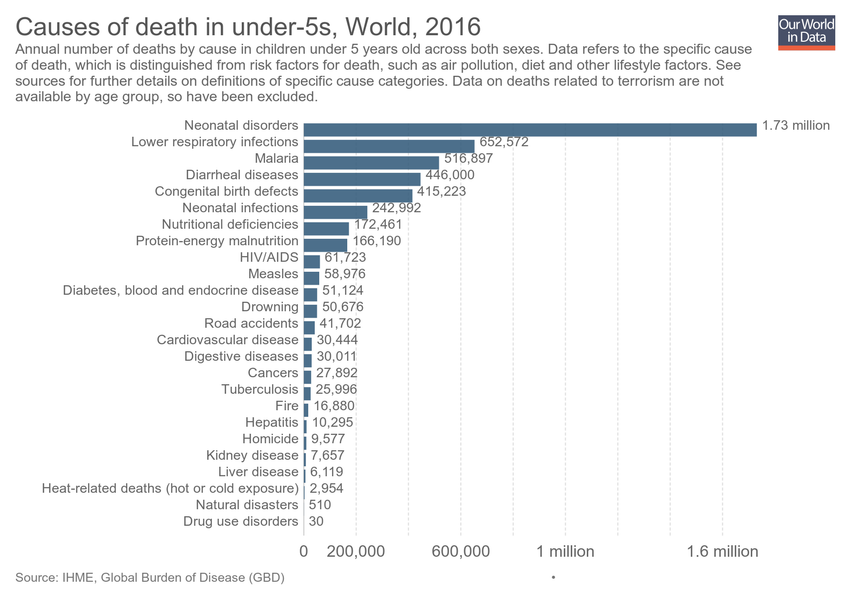
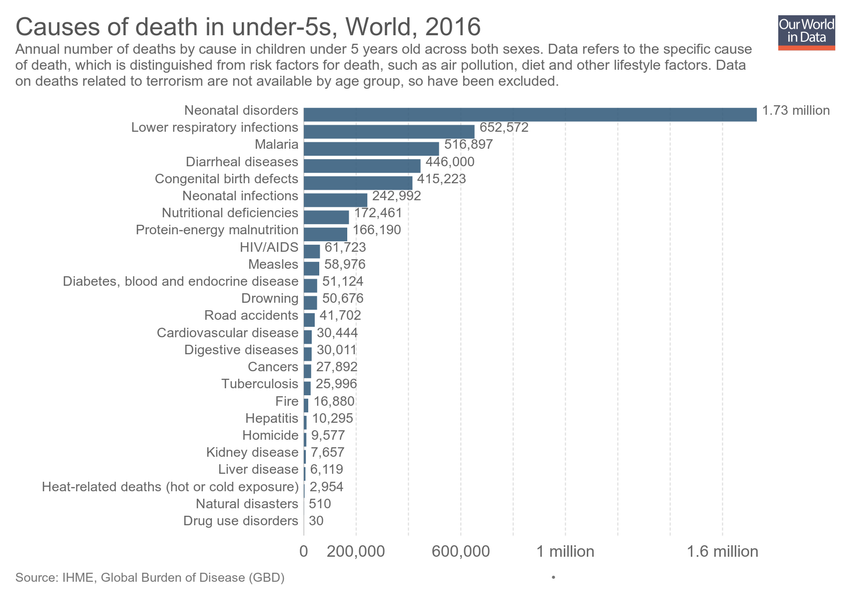
Updating chart causes-of-death-in-under-5s

Changed region(s): [[0.0, 0.09, 0.9788, 0.87]]

diff --git a/grapher/causes-of-death-in-under-5s.html b/grapher/causes-of-death-in-under-5s.html
@@ -1,4 +1,4 @@
-<!doctype html><html><head><meta name="viewport" content="width=device-width, initial-scale=1" /><title>Causes of death in under-5s - Our World in Data</title><meta name="description" content="Annual number of deaths by cause in children under 5 years old across both sexes. Data refers to the specific cause of death, which is distinguished from risk factors for death, such as air pollution, diet and other lifestyle factors. See sources for further details on definitions of specific cause categories. Data on deaths related to terrorism are not available by age group, so have been excluded." /><link rel="canonical" href="https://ourworldindata.org/grapher/causes-of-death-in-under-5s" /><meta property="fb:app_id" content="1149943818390250" /><meta property="og:url" content="https://ourworldindata.org/grapher/causes-of-death-in-under-5s" /><meta property="og:title" content="Causes of death in under-5s" /><meta property="og:description" content="Annual number of deaths by cause in children under 5 years old across both sexes. Data refers to the specific cause of death, which is distinguished from risk factors for death, such as air pollution, diet and other lifestyle factors. See sources for further details on definitions of specific cause categories. Data on deaths related to terrorism are not available by age group, so have been excluded." /><meta property="og:image" content="https://ourworldindata.org/grapher/exports/causes-of-death-in-under-5s.png?v=3" /><meta property="og:image:width" content="850" /><meta property="og:image:height" content="600" /><meta property="og:site_name" content="Our World in Data" /><meta name="twitter:card" content="summary_large_image" /><meta name="twitter:site" content="@OurWorldInData" /><meta name="twitter:creator" content="@OurWorldInData" /><meta name="twitter:title" content="Causes of death in under-5s" /><meta name="twitter:description" content="Annual number of deaths by cause in children under 5 years old across both sexes. Data refers to the specific cause of death, which is distinguished from risk factors for death, such as air pollution, diet and other lifestyle factors. See sources for further details on definitions of specific cause categories. Data on deaths related to terrorism are not available by age group, so have been excluded." /><meta name="twitter:image" content="https://ourworldindata.org/grapher/exports/causes-of-death-in-under-5s.png?v=3" /><style>
+<!doctype html><html><head><meta name="viewport" content="width=device-width, initial-scale=1" /><title>Causes of death in under-5s - Our World in Data</title><meta name="description" content="Annual number of deaths by cause in children under 5 years old across both sexes. Data refers to the specific cause of death, which is distinguished from risk factors for death, such as air pollution, diet and other lifestyle factors. Data on deaths related to terrorism are not available by age group, so have been excluded." /><link rel="canonical" href="https://ourworldindata.org/grapher/causes-of-death-in-under-5s" /><meta property="fb:app_id" content="1149943818390250" /><meta property="og:url" content="https://ourworldindata.org/grapher/causes-of-death-in-under-5s" /><meta property="og:title" content="Causes of death in under-5s" /><meta property="og:description" content="Annual number of deaths by cause in children under 5 years old across both sexes. Data refers to the specific cause of death, which is distinguished from risk factors for death, such as air pollution, diet and other lifestyle factors. Data on deaths related to terrorism are not available by age group, so have been excluded." /><meta property="og:image" content="https://ourworldindata.org/grapher/exports/causes-of-death-in-under-5s.png?v=4" /><meta property="og:image:width" content="850" /><meta property="og:image:height" content="600" /><meta property="og:site_name" content="Our World in Data" /><meta name="twitter:card" content="summary_large_image" /><meta name="twitter:site" content="@OurWorldInData" /><meta name="twitter:creator" content="@OurWorldInData" /><meta name="twitter:title" content="Causes of death in under-5s" /><meta name="twitter:description" content="Annual number of deaths by cause in children under 5 years old across both sexes. Data refers to the specific cause of death, which is distinguished from risk factors for death, such as air pollution, diet and other lifestyle factors. Data on deaths related to terrorism are not available by age group, so have been excluded." /><meta name="twitter:image" content="https://ourworldindata.org/grapher/exports/causes-of-death-in-under-5s.png?v=4" /><style>
         html, body {
             height: 100%;
             margin: 0;
@@ -20,8 +20,8 @@
         }
     </style><noscript><style>
                     figure { display: none !important; }
-                </style></noscript><link rel="stylesheet" href="https://ourworldindata.org/grapher/assets/commons.bundle.dcbbe53805c487d5e57617b10ac73a8a.css" /><link rel="preload" href="/grapher/data/variables/62026+61537+59063+61255+61277+58005+58611+59033+57511+57641+57966+58456+58778+61123+61024+60961+57787+61954+57726+59103+61836+58222+58070+58504+59048.json?v=3" as="fetch" crossorigin /></head><body class="singleChart"><figure data-grapher-src="/grapher/causes-of-death-in-under-5s"></figure><noscript id="fallback"><img src="/grapher/exports/causes-of-death-in-under-5s.svg" /><p>Interactive visualization requires JavaScript</p></noscript><script src="https://cdn.polyfill.io/v2/polyfill.min.js?features=es6,fetch"></script><script src="https://ourworldindata.org/grapher/assets/commons.bundle.4bbda1a4aa3b9e1fddc7.js"></script><script src="https://ourworldindata.org/grapher/assets/charts.bundle.4bbda1a4aa3b9e1fddc7.js"></script><script>
-        var jsonConfig = {"id":1707,"map":{"projection":"World","colorSchemeLabels":[],"colorSchemeValues":[],"colorSchemeMinValue":0,"customNumericColors":[],"customCategoryColors":{},"customCategoryLabels":{},"customHiddenCategories":{}},"tab":"chart","slug":"causes-of-death-in-under-5s","type":"DiscreteBar","title":"Causes of death in under-5s","xAxis":{"scaleType":"linear"},"yAxis":{"min":0,"scaleType":"linear"},"version":3,"subtitle":"Annual number of deaths by cause in children under 5 years old across both sexes. Data refers to the specific cause of death, which is distinguished from risk factors for death, such as air pollution, diet and other lifestyle factors. See sources for further details on definitions of specific cause categories. Data on deaths related to terrorism are not available by age group, so have been excluded.","hasMapTab":false,"originUrl":"https://ourworldindata.org/causes-of-death/","stackMode":"absolute","dimensions":[{"display":{"name":"Homicide","unit":"deaths","numDecimalPlaces":0},"property":"y","variableId":62026},{"display":{"name":"Protein-energy malnutrition","unit":"deaths","numDecimalPlaces":0},"property":"y","variableId":61537},{"display":{"name":"Nutritional deficiencies","unit":"deaths","numDecimalPlaces":0},"property":"y","variableId":59063},{"display":{"name":"Natural disasters","unit":"deaths","numDecimalPlaces":0},"property":"y","variableId":61255},{"display":{"name":"Heat-related deaths (hot or cold exposure)","unit":"deaths","numDecimalPlaces":0},"property":"y","variableId":61277},{"display":{"name":"Diarrheal diseases","unit":"deaths","numDecimalPlaces":0},"property":"y","variableId":58005},{"display":{"name":"Drug use disorders","unit":"deaths","numDecimalPlaces":0},"property":"y","variableId":58611},{"display":{"name":"Neonatal disorders","unit":"deaths","numDecimalPlaces":0},"property":"y","variableId":59033},{"display":{"name":"Road accidents","unit":"deaths","numDecimalPlaces":0},"property":"y","variableId":57511},{"display":{"name":"Tuberculosis","unit":"deaths","numDecimalPlaces":0},"property":"y","variableId":57641},{"display":{"name":"HIV/AIDS","unit":"deaths","numDecimalPlaces":0},"property":"y","variableId":57966},{"display":{"name":"Drowning","unit":"deaths","numDecimalPlaces":0},"property":"y","variableId":58456},{"display":{"name":"Malaria","unit":"deaths","numDecimalPlaces":0},"property":"y","variableId":58778},{"display":{"name":"Fire","unit":"deaths","numDecimalPlaces":0},"property":"y","variableId":61123},{"display":{"name":"Cancers","unit":"deaths","numDecimalPlaces":0},"property":"y","variableId":61024},{"display":{"name":"Hepatitis","unit":"deaths","numDecimalPlaces":0},"property":"y","variableId":60961},{"display":{"name":"Digestive diseases","unit":"deaths","numDecimalPlaces":0},"property":"y","variableId":57787},{"display":{"name":"Diabetes, blood and endocrine disease","unit":"deaths","numDecimalPlaces":0},"property":"y","variableId":61954},{"display":{"name":"Liver disease","unit":"deaths","numDecimalPlaces":0},"property":"y","variableId":57726},{"display":{"name":"Kidney disease","unit":"deaths","numDecimalPlaces":0},"property":"y","variableId":59103},{"display":{"name":"Cardiovascular disease","unit":"deaths","numDecimalPlaces":0},"property":"y","variableId":61836},{"display":{"name":"Congenital birth defects","unit":"deaths","numDecimalPlaces":0},"property":"y","variableId":58222,"saveToVariable":true},{"display":{"name":"Lower respiratory infections","unit":"deaths","numDecimalPlaces":0},"property":"y","variableId":58070},{"display":{"name":"Measles","unit":"deaths","numDecimalPlaces":0},"property":"y","variableId":58504,"saveToVariable":true},{"display":{"name":"Neonatal infections","unit":"deaths","numDecimalPlaces":0},"property":"y","variableId":59048,"saveToVariable":true}],"sourceDesc":"IHME, Global Burden of Disease (GBD)","hasChartTab":true,"isPublished":true,"selectedData":[{"index":0,"entityId":355},{"index":1,"entityId":355},{"index":10,"entityId":355},{"index":11,"entityId":355},{"index":12,"entityId":355},{"index":13,"entityId":355},{"index":14,"entityId":355},{"index":15,"entityId":355},{"index":16,"entityId":355},{"index":17,"entityId":355},{"index":18,"entityId":355},{"index":19,"entityId":355},{"index":2,"entityId":355},{"index":20,"entityId":355},{"index":21,"entityId":355},{"index":22,"entityId":355},{"index":23,"entityId":355},{"index":24,"entityId":355},{"index":25,"entityId":355},{"index":3,"entityId":355},{"index":4,"entityId":355},{"index":5,"entityId":355},{"index":6,"entityId":355},{"index":7,"entityId":355},{"index":8,"entityId":355},{"index":9,"entityId":355}],"internalNotes":"","addCountryMode":"change-country"};
+                </style></noscript><link rel="stylesheet" href="https://ourworldindata.org/grapher/assets/commons.bundle.dcbbe53805c487d5e57617b10ac73a8a.css" /><link rel="preload" href="/grapher/data/variables/62026+61537+59063+61255+61277+58005+58611+59033+57511+57641+57966+58456+58778+61123+61024+60961+57787+61954+57726+59103+61836+58222+58070+58504+59048.json?v=4" as="fetch" crossorigin /></head><body class="singleChart"><figure data-grapher-src="/grapher/causes-of-death-in-under-5s"></figure><noscript id="fallback"><img src="/grapher/exports/causes-of-death-in-under-5s.svg" /><p>Interactive visualization requires JavaScript</p></noscript><script src="https://cdn.polyfill.io/v2/polyfill.min.js?features=es6,fetch"></script><script src="https://ourworldindata.org/grapher/assets/commons.bundle.4bbda1a4aa3b9e1fddc7.js"></script><script src="https://ourworldindata.org/grapher/assets/charts.bundle.4bbda1a4aa3b9e1fddc7.js"></script><script>
+        var jsonConfig = {"id":1707,"map":{"projection":"World","colorSchemeLabels":[],"colorSchemeValues":[],"colorSchemeMinValue":0,"customNumericColors":[],"customCategoryColors":{},"customCategoryLabels":{},"customHiddenCategories":{}},"tab":"chart","slug":"causes-of-death-in-under-5s","type":"DiscreteBar","title":"Causes of death in under-5s","xAxis":{"scaleType":"linear"},"yAxis":{"min":0,"scaleType":"linear"},"version":4,"subtitle":"Annual number of deaths by cause in children under 5 years old across both sexes. Data refers to the specific cause of death, which is distinguished from risk factors for death, such as air pollution, diet and other lifestyle factors. Data on deaths related to terrorism are not available by age group, so have been excluded.","hasMapTab":false,"originUrl":"https://ourworldindata.org/causes-of-death/","stackMode":"absolute","dimensions":[{"display":{"name":"Homicide","unit":"deaths","numDecimalPlaces":0},"property":"y","variableId":62026},{"display":{"name":"Protein-energy malnutrition","unit":"deaths","numDecimalPlaces":0},"property":"y","variableId":61537},{"display":{"name":"Nutritional deficiencies","unit":"deaths","numDecimalPlaces":0},"property":"y","variableId":59063},{"display":{"name":"Natural disasters","unit":"deaths","numDecimalPlaces":0},"property":"y","variableId":61255},{"display":{"name":"Heat-related deaths (hot or cold exposure)","unit":"deaths","numDecimalPlaces":0},"property":"y","variableId":61277},{"display":{"name":"Diarrheal diseases","unit":"deaths","numDecimalPlaces":0},"property":"y","variableId":58005},{"display":{"name":"Drug use disorders","unit":"deaths","numDecimalPlaces":0},"property":"y","variableId":58611},{"display":{"name":"Neonatal disorders","unit":"deaths","numDecimalPlaces":0},"property":"y","variableId":59033},{"display":{"name":"Road accidents","unit":"deaths","numDecimalPlaces":0},"property":"y","variableId":57511},{"display":{"name":"Tuberculosis","unit":"deaths","numDecimalPlaces":0},"property":"y","variableId":57641},{"display":{"name":"HIV/AIDS","unit":"deaths","numDecimalPlaces":0},"property":"y","variableId":57966},{"display":{"name":"Drowning","unit":"deaths","numDecimalPlaces":0},"property":"y","variableId":58456},{"display":{"name":"Malaria","unit":"deaths","numDecimalPlaces":0},"property":"y","variableId":58778},{"display":{"name":"Fire","unit":"deaths","numDecimalPlaces":0},"property":"y","variableId":61123},{"display":{"name":"Cancers","unit":"deaths","numDecimalPlaces":0},"property":"y","variableId":61024},{"display":{"name":"Hepatitis","unit":"deaths","numDecimalPlaces":0},"property":"y","variableId":60961},{"display":{"name":"Digestive diseases","unit":"deaths","numDecimalPlaces":0},"property":"y","variableId":57787},{"display":{"name":"Diabetes, blood and endocrine disease","unit":"deaths","numDecimalPlaces":0},"property":"y","variableId":61954},{"display":{"name":"Liver disease","unit":"deaths","numDecimalPlaces":0},"property":"y","variableId":57726},{"display":{"name":"Kidney disease","unit":"deaths","numDecimalPlaces":0},"property":"y","variableId":59103},{"display":{"name":"Cardiovascular disease","unit":"deaths","numDecimalPlaces":0},"property":"y","variableId":61836},{"display":{"name":"Congenital birth defects","unit":"deaths","numDecimalPlaces":0},"property":"y","variableId":58222,"saveToVariable":true},{"display":{"name":"Lower respiratory infections","unit":"deaths","numDecimalPlaces":0},"property":"y","variableId":58070},{"display":{"name":"Measles","unit":"deaths","numDecimalPlaces":0},"property":"y","variableId":58504,"saveToVariable":true},{"display":{"name":"Neonatal infections","unit":"deaths","numDecimalPlaces":0},"property":"y","variableId":59048,"saveToVariable":true}],"sourceDesc":"IHME, Global Burden of Disease (GBD)","hasChartTab":true,"isPublished":true,"selectedData":[{"index":0,"entityId":355},{"index":1,"entityId":355},{"index":10,"entityId":355},{"index":11,"entityId":355},{"index":12,"entityId":355},{"index":13,"entityId":355},{"index":14,"entityId":355},{"index":15,"entityId":355},{"index":16,"entityId":355},{"index":17,"entityId":355},{"index":18,"entityId":355},{"index":19,"entityId":355},{"index":2,"entityId":355},{"index":20,"entityId":355},{"index":21,"entityId":355},{"index":22,"entityId":355},{"index":23,"entityId":355},{"index":24,"entityId":355},{"index":25,"entityId":355},{"index":3,"entityId":355},{"index":4,"entityId":355},{"index":5,"entityId":355},{"index":6,"entityId":355},{"index":7,"entityId":355},{"index":8,"entityId":355},{"index":9,"entityId":355}],"internalNotes":"","addCountryMode":"change-country"};
         var figure = document.getElementsByTagName("figure")[0];
         try {
             window.App = {};
